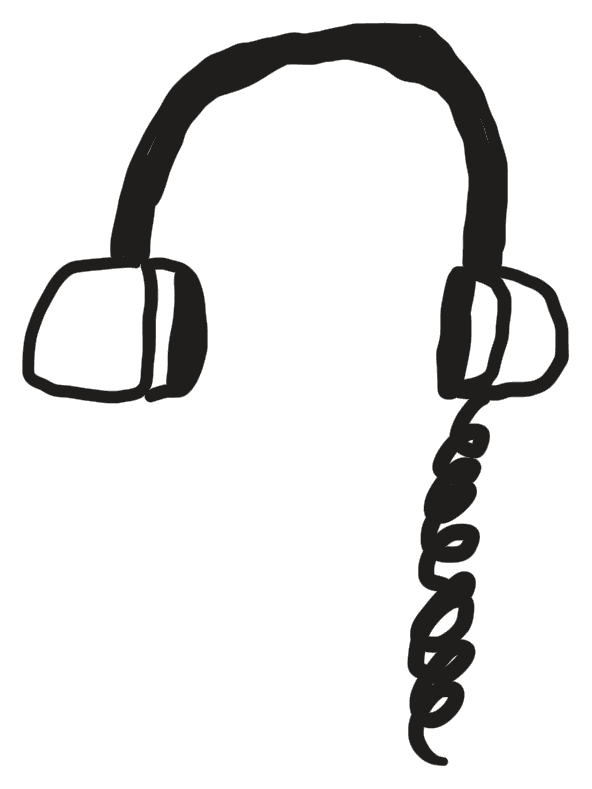
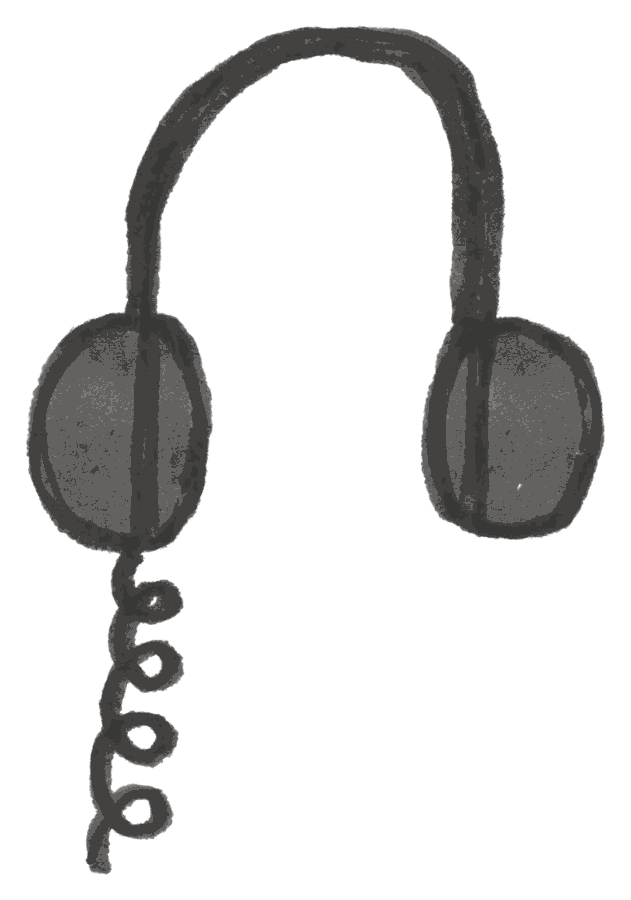
Deploy build from source c8b18dd

Changed region(s): [[0.0304, 0.0304, 0.973, 0.9734]]

diff --git a/index.html b/index.html
@@ -87,7 +87,7 @@
 <p>I’m a <a href="about.html">record collector</a> who DJs weddings in New York, New Jersey, and the Hudson Valley, about forty-five a year.</p>
 </section>
 <section id="mixes">
-<h2><img class="label" src="doodles/divider-mixes.png?v=f4fa66a1" width="57" height="36" alt="Mixes" style="height: 2.30em"> <img class="h" src="doodles/headphones.png?v=4689d395" width="47" height="63" alt=""></h2>
+<h2><img class="label" src="doodles/divider-mixes.png?v=f4fa66a1" width="57" height="36" alt="Mixes" style="height: 2.30em"> <img class="h" src="doodles/headphones.png?v=6888fbe1" width="44" height="63" alt=""></h2>
 <div>
 <ul class="rows">
 <li data-src="https://pub-67f7093beab94c4c96e1858a443fbe71.r2.dev/mixes/Deep%20Cut%20Cocktail%20Hour.m4a" data-runtime="54:24"><time>2026-05</time><a class="t" href="mixes/deep-cut-cocktail-hour.html">Deep Cut Cocktail Hour</a><span class="n"><button class="play" type="button" hidden aria-label="Play Deep Cut Cocktail Hour"><span class="i-play"><img class="btn" src="doodles/play.png?v=8547c7b6" width="19" height="18" alt=""></span><span class="i-pause"><img class="btn" src="doodles/pause.png?v=2b24e819" width="15" height="18" alt=""></span></button><span class="clock">54:24</span></span></li>

diff --git a/about.html b/about.html
@@ -49,7 +49,7 @@
 <p>Everything since has been chasing both of those: the warmth of a 5 o’clock radio set and the architecture of a side-A/side-B record.</p>
 <h2>Some of what I play</h2>
 <p>Random picks, in no order. Ask me tomorrow and it’d be a different list.</p>
-<p class="picks">Miki Matsubara, Robert Lester Folsom, Kokoroko, Jungle, 50 Cent, Herb Alpert, Greenflow, Sylvester, Labi Siffre, LCD Soundsystem, Jorge Autuori, Antena, The Diddys, The Main Ingredient, Mariah Carey, Khruangbin, Isabelle Antena, Papa Bear &amp; His Cubs, Faces, Chappell Roan, Say She She, Evinha, Curtis Mayfield, Tim Maia, Madonna, Thee Sacred Souls, Human Race, Raw Silk.<br>
+<p class="picks">Trevor Dandy, Raw Silk, SAULT, Aretha Franklin, Peggy Gou, Wilfred Luckie, NEL OLIVER, Milton Wright, Azymuth, Mýa, Kalima, Letta Mbulu, Anita Ward, El Guincho, Modjo, Greenflow, Gilberto Gil, The Five Stairsteps, Elis Regina, Amerie, Supreme Jubilees, Bobbi Humphrey, Tim Maia, Syl Johnson, Cerrone, Antena, Lynda Dawn, Chemise.<br>
 <span class="m">Shuffled <time datetime="2026-10-18">2026-10-18</time>.</span></p>
 <p>A few labels I dig through: Athens of the North, Numero Group, Salsoul, Awesome Tapes from Africa, Jazz Dispensary.</p>
 <h2>The shelf</h2>

diff --git a/mixes/open-funk-format.html b/mixes/open-funk-format.html
@@ -21,7 +21,7 @@
 <header><a href="../"><img class="sig" src="../doodles/name.png?v=15333e3e" width="95" height="101" alt="Matthew Reate"></a></header>
 <main>
 <section class="page">
-<div class="rail"><a href="../#mixes"><img class="label" src="../doodles/divider-mixes.png?v=f4fa66a1" width="57" height="36" alt="Mixes" style="height: 2.30em"></a><img class="h" src="../doodles/headphones.png?v=4689d395" width="47" height="63" alt=""></div>
+<div class="rail"><a href="../#mixes"><img class="label" src="../doodles/divider-mixes.png?v=f4fa66a1" width="57" height="36" alt="Mixes" style="height: 2.30em"></a><img class="h" src="../doodles/headphones.png?v=6888fbe1" width="44" height="63" alt=""></div>
 <div>
 <h1>Open Funk Format</h1>
 <p>An open-format funk mix for restaurant gigs, lounges, and rooms where nobody asked for a playlist but everybody notices the music.</p>

diff --git a/mixes/disco-house-mix.html b/mixes/disco-house-mix.html
@@ -21,7 +21,7 @@
 <header><a href="../"><img class="sig" src="../doodles/name.png?v=15333e3e" width="95" height="101" alt="Matthew Reate"></a></header>
 <main>
 <section class="page">
-<div class="rail"><a href="../#mixes"><img class="label" src="../doodles/divider-mixes.png?v=f4fa66a1" width="57" height="36" alt="Mixes" style="height: 2.30em"></a><img class="h" src="../doodles/headphones.png?v=4689d395" width="47" height="63" alt=""></div>
+<div class="rail"><a href="../#mixes"><img class="label" src="../doodles/divider-mixes.png?v=f4fa66a1" width="57" height="36" alt="Mixes" style="height: 2.30em"></a><img class="h" src="../doodles/headphones.png?v=6888fbe1" width="44" height="63" alt=""></div>
 <div>
 <h1>Disco House Mix</h1>
 <p>Disco into house. The tempo lift after midnight when the floor is already committed.</p>

diff --git a/mixes/deep-cut-cocktail-hour.html b/mixes/deep-cut-cocktail-hour.html
@@ -21,7 +21,7 @@
 <header><a href="../"><img class="sig" src="../doodles/name.png?v=15333e3e" width="95" height="101" alt="Matthew Reate"></a></header>
 <main>
 <section class="page">
-<div class="rail"><a href="../#mixes"><img class="label" src="../doodles/divider-mixes.png?v=f4fa66a1" width="57" height="36" alt="Mixes" style="height: 2.30em"></a><img class="h" src="../doodles/headphones.png?v=4689d395" width="47" height="63" alt=""></div>
+<div class="rail"><a href="../#mixes"><img class="label" src="../doodles/divider-mixes.png?v=f4fa66a1" width="57" height="36" alt="Mixes" style="height: 2.30em"></a><img class="h" src="../doodles/headphones.png?v=6888fbe1" width="44" height="63" alt=""></div>
 <div>
 <h1>Deep Cut Cocktail Hour</h1>
 <p>A cocktail-hour set of deep cuts, recorded live in one pass.</p>

diff --git a/mixes/wine-bar-dinner.html b/mixes/wine-bar-dinner.html
@@ -21,7 +21,7 @@
 <header><a href="../"><img class="sig" src="../doodles/name.png?v=15333e3e" width="95" height="101" alt="Matthew Reate"></a></header>
 <main>
 <section class="page">
-<div class="rail"><a href="../#mixes"><img class="label" src="../doodles/divider-mixes.png?v=f4fa66a1" width="57" height="36" alt="Mixes" style="height: 2.30em"></a><img class="h" src="../doodles/headphones.png?v=4689d395" width="47" height="63" alt=""></div>
+<div class="rail"><a href="../#mixes"><img class="label" src="../doodles/divider-mixes.png?v=f4fa66a1" width="57" height="36" alt="Mixes" style="height: 2.30em"></a><img class="h" src="../doodles/headphones.png?v=6888fbe1" width="44" height="63" alt=""></div>
 <div>
 <h1>Wine Bar Dinner</h1>
 <p>A wine bar dinner mix, recorded in one pass.</p>
